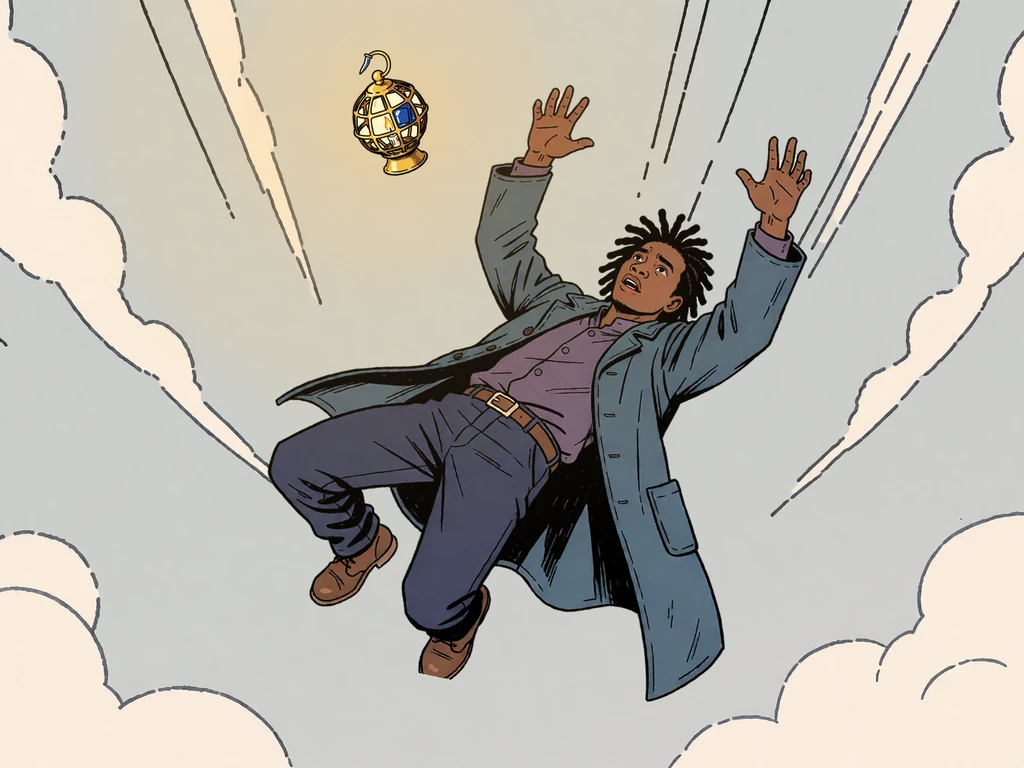
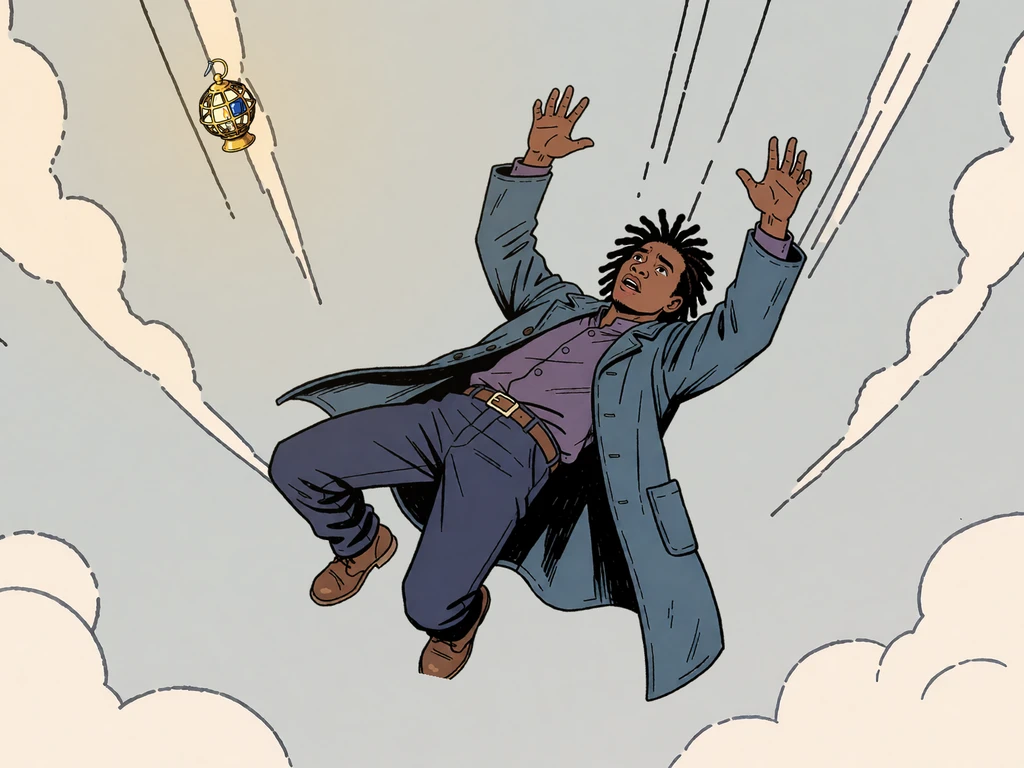
Run 8 loses picture 4; Offering 23 and 24 relocked
Picture 4 (the tug over the black pit) is gone from run 8 at Ladi's word,
with its switch, its card and its file. Offering 23 and 24 are the relocked
pictures with the lantern smaller and to one side.

Claude-Session: https://claude.ai/code/session_01JTmPYBGE5RJi7qTbK5Qior

diff --git a/tests/sieve.test.ts b/tests/sieve.test.ts
@@ -462,11 +462,10 @@ describe("Run 8: a harder job, on the Sieve", () => {
 
 describe("Run 8: the reaction stills", () => {
   /** A whole game played by the juggler, with every line it says and when the room's clock said it, and every wisp's arrivals. */
-  function playThrough(stillFour = false) {
+  function playThrough() {
     let s = 7;
     const msgs: { at: number; m: ServerMsg }[] = [];
     const room = new SieveRoom({ every: () => () => {} }, () => (s = (s * 48271) % 2147483647), "juggle");
-    room.stillFour = stillFour;
     let clock = 0;
     const conn = room.connect((m) => msgs.push({ at: clock, m }));
     conn.message(JSON.stringify({ t: "hello", name: "Rook" }));
@@ -484,7 +483,7 @@ describe("Run 8: the reaction stills", () => {
     return { room, lines, arrivals };
   }
 
-  it("the core stills come in order with their lines, picture 4 stays off, and the end brings 10 and 11", () => {
+  it("the core stills come in order with their lines, picture 4 is gone, and the end brings 10 and 11", () => {
     const { room, lines } = playThrough();
     expect(room.state.phase).toBe("results");
     const shown = lines.filter((x) => x.l.still).map((x) => x.l.still!.id);
@@ -527,17 +526,8 @@ describe("Run 8: the reaction stills", () => {
     for (let i = 1; i < up.length; i++) if (!up[i]!.seq) expect(up[i]!.from - up[i - 1]!.to).toBeGreaterThanOrEqual(ticks(STILL.gapMs) - 1);
   });
 
-  it("picture 4 (the tug itself, no line) shows when switched on, and 5 cross-fades over it", () => {
-    const { lines } = playThrough(true);
-    const shown = lines.filter((x) => x.l.still).map((x) => x.l.still!.id);
-    expect(shown).toContain("r8-4");
-    const four = lines.find((x) => x.l.still?.id === "r8-4")!;
-    expect(four.l.text).toBe("");
-    expect(shown.indexOf("r8-4")).toBeLessThan(shown.indexOf("r8-5"));
-  });
-
   it("every still the run calls has a placeholder card", () => {
-    for (const id of ["r8-1", "r8-2", "r8-4", "r8-5", "r8-6", "r8-7", "r8-10", "r8-11a", "r8-11b"]) expect(STILLS[id]?.who).toBeTruthy();
+    for (const id of ["r8-1", "r8-2", "r8-5", "r8-6", "r8-7", "r8-10", "r8-11a", "r8-11b"]) expect(STILLS[id]?.who).toBeTruthy();
     // Held for its line plus a second, never shorter than the floor; seven holds longer.
     expect(stillMs("r8-1", 0)).toBe(STILL.inMs + STILL.holdMs + STILL.outMs);
     expect(stillMs("r8-1", 4000)).toBe(STILL.inMs + 5000 + STILL.outMs);

diff --git a/src/client/testing.ts b/src/client/testing.ts
@@ -104,7 +104,6 @@ export const OPTIONS: Opt[] = [
 
   { section: "run8", key: "pull", kind: "choice", label: "Which take of the pull plays", values: [["", "The tug, the third take (the run's own)"], ["2", "The second take (v112)"], ["1", "The first take (v111)"]] },
   { section: "run8", key: "nopull", kind: "flag", label: "No pull at all (v108). This wins over the take above." },
-  { section: "run8", key: "still4", kind: "flag", on: "0", label: "Leave out picture 4, the pit at the first tug (shown as a trial)" },
 
   { section: "run9", key: "patch", kind: "choice", label: "Where the dark patch goes", values: [["", "For the brightest light, the lamp too (the run's own)"], ["clock", "On a clock he can read (the build before, v155)"], ["react", "For light, swelling over a heap"], ["seek", "For light, at one size"], ["line", "Along the first build's fixed lines"], ["drag", "It carries wisps off (the first sketch)"]] },
   { section: "run9", key: "sip", kind: "number", min: 0, max: 30, step: 1, placeholder: String(RESCUE.patch.bait.sip), label: "Ticks the lamp waits between two wisps (0 for no wait)" },

diff --git a/src/server/sieve.ts b/src/server/sieve.ts
@@ -77,12 +77,6 @@ export class SieveRoom {
   private tugEndedAt = -1;
   /** Which stills have been shown, in order (for tests). */
   stillsShown: string[] = [];
-  /**
-   * Picture 4 (the tug itself, no face), at the first tug. Off until 25 Nov because the board already
-   * shows it in his hand (gameplay thread); on now as a trial, so Ladi can judge the painted panel in
-   * play and drop it if it does not fit. ?still4=0 in the page turns it off.
-   */
-  stillFour = true;
   /** All the stills off (?nostills in the page). */
   stillsOn = true;
   /** For the measurements: wisps lost (the first not counted), how many of those over a well, restarts, and the ticks the last try took. */
@@ -383,7 +377,7 @@ export class SieveRoom {
       p.tugged = near?.id ?? null;
       p.moved = [];
       this.pulledAt = g.tick;
-      if (this.stillFour) this.picture("r8-4", true, near ? this.wellTile(near.pos) : null);
+      // No picture here: picture 4 (the tug over the pit) was taken out at Ladi's word, 26 Nov.
       return;
     }
     if (p.phase === "wait") {

diff --git a/src/engine/stills.ts b/src/engine/stills.ts
@@ -66,7 +66,6 @@ export const STILLS: Record<string, StillCard> = {
   "r8-2": { who: "Tilda in front, Rook beside her, looking down at the far well", faces: "She is tired, eyes half lidded. He frowns at the well, brows pulled together." },
   "r8-3": { who: "Tilda, a hand held flat at a wisp's height", faces: "Matter-of-fact, almost bored." },
   // Approved with the rest (25 Nov); shown at the first tug as a trial Ladi will judge in play.
-  "r8-4": { who: "The event: his wisp at the end of a thin, shaking beam, over a black pit", faces: "No face." },
   "r8-5": { who: "Tilda near, Rook behind her braced on his staff", faces: "She is lost: eyes wide, brows up, mouth open. He looks back at her, eyes wide, mouth just open.", untilNextMs: 6000 },
   "r8-6": { who: "The same two, turned", faces: "She looks at him, waiting, mouth shut tight. He looks down at his staff, brows pulled hard together." },
   "r8-7": { who: "Rook alone, head a little tilted", faces: "Concerned: brows raised and drawn together, mouth open as if he has just asked.", extraMs: 1000 },

diff --git a/src/client/main.ts b/src/client/main.ts
@@ -1151,7 +1151,6 @@ function sieveRoom() {
   else if (q.get("pull") === "1") r.pullMode = "quiet";
   else if (q.get("pull") === "2") r.pullMode = "loud";
   // Reaction stills: picture 4 (the tug itself) is off unless asked for; all of them off with ?nostills.
-  if (q.get("still4") === "0") r.stillFour = false;
   if (q.has("nostills")) r.stillsOn = false;
   else stills.preload("r8-");
   return r;

diff --git a/CREDITS.md b/CREDITS.md
@@ -32,7 +32,7 @@ subscription-only billing so no Spark was spent. Sources are in the project file
 | story/kindling-underside.webp, story/kindling-heart-small.webp, story/kindling-heart-big.webp, story/kindling-hearts.webp, story/kindling-eye-glint.webp (run 1's ending: the home island from below in its horseshoe shape, both hearts down to embers; the two hearts lit as separate layers; the sky from below with home in its new shape, approved by Ladi at 11:46 AM, "Islands from below lgtm"; and home's one light among them, the 2026-11-23 glint trimmed tighter) | Painted by the cutscene thread on Sogni, 2026-11-24 (`sogni/lanternfall/production/story/v4/`), with krea2_identity_edit_v1_2 on the subscription, 0 Spark, plus its own code, as that thread reports; it says Ladi approved the underside that day and chose two hearts. ❓ That thread has not read the model's licence terms, the same caveat as the run 8 stills. Converted to WebP, same size (1536 square) | Run 1's ending, over the rim and down the underside: the small heart under the Kindling ground lights first, then the big one at the tip; then the islands from below, home's light as bright as the score |
 | story/walk-kitchen.webp (Rook's kitchen, walk 2) | The cutscene art thread's picture (`production/story/part1/kitchen/kitchen-tappable-walk2-draft-3.png`, 2026-11-24), the lantern with its approved hook handle; that thread reports Ladi's "Yes" at 11:47 AM on 2026-11-24 as covering it. ❓ It has not read the model's licence terms, the same caveat as its other pictures. Converted to WebP at 1280 px |
 | story/evening-1.webp and story/evening-2.webp (the evening after Granny's game, 3-4a) | The cutscene art thread's pictures (`production/story/part1/evening/`, drawn on Sogni on the subscription as that thread reports). Picture 1, the pond at sunset, replaced on 2026-11-26 by `evening-pond-final-3.png` (Lumi's right hand back, a younger face, Sefa looking up at Rook), locked by Ladi; picture 2 from `evening-kitchen-night-final-1.png`. ❓ That thread has not read the model's licence terms, the same caveat as its other pictures. Converted to WebP at 1280 px | Part 1's evening scene, 3-4a (`src/client/part1.ts` EVENING) |
-| story/gt-*.webp (the glow test before run 6, seven wide pictures with two light layers), story/dream-*.webp (the dream before run 1, eight pictures), story/skiff-*.webp (the skiff coming in at sunset and leaving the next morning, 4-5, redrawn from the personas on Ladi's notes in `production/story/part1/skiff-home/final-3/` (the arrival; replaced on 2026-11-26 by that folder's later save of `skiff-1-arrives-sunset.png`, which fixes Kes's extra hand, approved by Ladi) and `final-2/` (leaving); the first set's three are no longer used), story/sendoff-*.webp (the beacon and the send-off, 8-9b, thirteen pictures), story/handoff-*.webp (before the stranger's ship, 9-10, eight pictures; picture 4, the ferryman calling, replaced on 2026-11-26 by story row S4, `production/story/runs9-10/s4-over-here-l.png`, approved by Ladi, cropped to 4:3 by the cutscene thread, the crop not seen by Ladi), story/offering-*.webp (the Offering, 11, 25 pictures, rebuilt from the game's own island in `production/story/offering/final-2/`; the first draft is no longer used; pictures 4 and 7 replaced on 2026-11-25 by the third set, `stills-v3/04-falls-wide-a` and `07-lumi-turns-f`, cropped to 4:3 and approved by Ladi; picture 4 replaced again on 2026-11-26 by the ink redraw `stills-v3/04-falls-final` and picture 7 by `stills-v3/07-lumi-final`, both approved by Ladi, the crops the cutscene thread's; picture 1 replaced on 2026-11-26 by `stills-v3/01-landing-final`, picture 5 by `stills-v3/05-lumi-final` and picture 3 by `stills-v3/03-tip-final-3` (Lumi at true scale on the stone and the boat, locked by Ladi), all approved by Ladi, cropped to 4:3 by the cutscene thread, the crops not seen by Ladi; picture 8 replaced on 2026-11-26 by `stills-v3/08-rim-final` (Rook on the bank, Lumi on the stone turned to him), locked by Ladi, the 1024x768 crop the cutscene thread's; picture 9 replaced on 2026-11-26 by `stills-v3/09-door-final` (Hesta by Rook's door, facing him), locked by Ladi, the 1024x768 crop the cutscene thread's; picture 11 replaced on 2026-11-26 by `stills-v3/11-side-final` (Hesta leads Rook round behind his house), locked by Ladi, the 1024x768 crop the cutscene thread's; pictures 12 to 15 replaced on 2026-11-26 by `stills-v3/12-rook-final`, `13-hesta-final`, `14-kneel-final` and `15-hesta-final`, picture 16 by `16-rook-final` and picture 17 by `17-hesta-final`, pictures 6 and 10 by the cutscene thread's `offering-06-mooring` and `offering-10-rook` stills, and pictures 18, 19, 20, 22, 23, 24 and 25 by its `offering-18-line`, `19-rim`, `20-tip`, `22-under`, `23-fall`, `24-fall` and `25-out` stills, and pictures 2 and 21 by `stills-v3/02-path-final` (a krea2_identity_edit_v1_2 repaint of the map view, 0 Spark, with Rook composited by hand) and `stills-v3/21-lumi-final` (Lumi on the picture-21 plate, krea2_identity_edit_v1_2, the lantern from `lant2/lit.png`, cleaned up by hand), locked by Ladi; every Offering picture is now locked, the 1024x768 crops the cutscene thread's) and story/hands-*.webp (Hesta's hands at night and the morning after, 7-8b, four pictures and a shake layer) | The cutscene art thread's final sets (`production/story/part1/glowtest/final/`, `production/story/dream/final/`, `production/story/part1/skiff-home/final/`, `production/story/part1/send-off/final/`, `production/story/handoff-9-10/final/`, `production/story/offering/final/` and `production/story/part1/hands/final/`, 2026-11-25), drawn on Sogni on the subscription as that thread reports, 0 Spark. Glow test: six pictures approved by Ladi on 23 and 24 Nov; gt-5-rook-proud is that thread's pick, not seen by Ladi. Dream: all eight are that thread's picks; Ladi saw the rough storyboard only. Skiff home, send-off, hands, the pictures before the ship and the Offering: that thread's picks, not seen by Ladi. ❓ That thread has not read the model's licence terms, the same caveat as its other pictures. Converted to WebP (glow test 1920x1080, dream 1024x768) | Part 1's held-picture scenes 0, 4-5, 5-6b, 7-8b, 8-9b, 9-10 and 11 (`src/client/part1.ts` DREAM, HELD and GLOW) |
+| story/gt-*.webp (the glow test before run 6, seven wide pictures with two light layers), story/dream-*.webp (the dream before run 1, eight pictures), story/skiff-*.webp (the skiff coming in at sunset and leaving the next morning, 4-5, redrawn from the personas on Ladi's notes in `production/story/part1/skiff-home/final-3/` (the arrival; replaced on 2026-11-26 by that folder's later save of `skiff-1-arrives-sunset.png`, which fixes Kes's extra hand, approved by Ladi) and `final-2/` (leaving); the first set's three are no longer used), story/sendoff-*.webp (the beacon and the send-off, 8-9b, thirteen pictures), story/handoff-*.webp (before the stranger's ship, 9-10, eight pictures; picture 4, the ferryman calling, replaced on 2026-11-26 by story row S4, `production/story/runs9-10/s4-over-here-l.png`, approved by Ladi, cropped to 4:3 by the cutscene thread, the crop not seen by Ladi), story/offering-*.webp (the Offering, 11, 25 pictures, rebuilt from the game's own island in `production/story/offering/final-2/`; the first draft is no longer used; pictures 4 and 7 replaced on 2026-11-25 by the third set, `stills-v3/04-falls-wide-a` and `07-lumi-turns-f`, cropped to 4:3 and approved by Ladi; picture 4 replaced again on 2026-11-26 by the ink redraw `stills-v3/04-falls-final` and picture 7 by `stills-v3/07-lumi-final`, both approved by Ladi, the crops the cutscene thread's; picture 1 replaced on 2026-11-26 by `stills-v3/01-landing-final`, picture 5 by `stills-v3/05-lumi-final` and picture 3 by `stills-v3/03-tip-final-3` (Lumi at true scale on the stone and the boat, locked by Ladi), all approved by Ladi, cropped to 4:3 by the cutscene thread, the crops not seen by Ladi; picture 8 replaced on 2026-11-26 by `stills-v3/08-rim-final` (Rook on the bank, Lumi on the stone turned to him), locked by Ladi, the 1024x768 crop the cutscene thread's; picture 9 replaced on 2026-11-26 by `stills-v3/09-door-final` (Hesta by Rook's door, facing him), locked by Ladi, the 1024x768 crop the cutscene thread's; picture 11 replaced on 2026-11-26 by `stills-v3/11-side-final` (Hesta leads Rook round behind his house), locked by Ladi, the 1024x768 crop the cutscene thread's; pictures 12 to 15 replaced on 2026-11-26 by `stills-v3/12-rook-final`, `13-hesta-final`, `14-kneel-final` and `15-hesta-final`, picture 16 by `16-rook-final` and picture 17 by `17-hesta-final`, pictures 6 and 10 by the cutscene thread's `offering-06-mooring` and `offering-10-rook` stills, and pictures 18, 19, 20, 22, 23, 24 and 25 by its `offering-18-line`, `19-rim`, `20-tip`, `22-under`, `23-fall`, `24-fall` and `25-out` stills (23 and 24 relocked on 2026-11-26 from `stills-v3/23-fall-final-2` and `24-fall-final-2`, the lantern smaller and to one side, a hand composite, 0 Spark), and pictures 2 and 21 by `stills-v3/02-path-final` (a krea2_identity_edit_v1_2 repaint of the map view, 0 Spark, with Rook composited by hand) and `stills-v3/21-lumi-final` (Lumi on the picture-21 plate, krea2_identity_edit_v1_2, the lantern from `lant2/lit.png`, cleaned up by hand), locked by Ladi; every Offering picture is now locked, the 1024x768 crops the cutscene thread's) and story/hands-*.webp (Hesta's hands at night and the morning after, 7-8b, four pictures and a shake layer) | The cutscene art thread's final sets (`production/story/part1/glowtest/final/`, `production/story/dream/final/`, `production/story/part1/skiff-home/final/`, `production/story/part1/send-off/final/`, `production/story/handoff-9-10/final/`, `production/story/offering/final/` and `production/story/part1/hands/final/`, 2026-11-25), drawn on Sogni on the subscription as that thread reports, 0 Spark. Glow test: six pictures approved by Ladi on 23 and 24 Nov; gt-5-rook-proud is that thread's pick, not seen by Ladi. Dream: all eight are that thread's picks; Ladi saw the rough storyboard only. Skiff home, send-off, hands, the pictures before the ship and the Offering: that thread's picks, not seen by Ladi. ❓ That thread has not read the model's licence terms, the same caveat as its other pictures. Converted to WebP (glow test 1920x1080, dream 1024x768) | Part 1's held-picture scenes 0, 4-5, 5-6b, 7-8b, 8-9b, 9-10 and 11 (`src/client/part1.ts` DREAM, HELD and GLOW) |
 | stills/w9-lumi-door.webp (Lumi at the door with the staff and no bag, with her first line in the morning walk before run 8) | A 4:3 crop of story/hands-4-morning-door.webp (the hands set's fourth picture, row above), made here on 2026-11-26 when the picture moved out of the hands scene into the walk on the story thread's advice. Same terms as that row | Walk 9, Lumi's "You packed one bag." |
 | faces/kes-{alarmed,bereft}.webp, faces/grandmother-{steady,soft,talking}.webp, faces/grandfather-neutral.webp (run 9) | Bubble faces from the cast art thread (project files `sogni/lanternfall/production/bubble-faces/`, 2026-11-24), 160 px WebP as delivered. Placeholders: the grandparents' look is a first draft Ladi has not approved, and Kes's two are being re-framed | Bark bubbles and the talk box in run 9; which face goes with which line is in `src/engine/moods.ts` |
 | models/low-house-{a,b,c}.glb, models/rescue-boat.glb, models/kes-drop.glb, models/cold-brazier.glb (run 9) | Draft 1 from the maps thread (project files `sogni/lanternfall/production/places/low-one/`, 2026-11-25): concepts by Sogni AI z_image_turbo_bf16, 3D by Sogni AI pixal3d_int8_i23d, slimmed and re-baked there; the boat's lamp post is procedural | The low one in run 9, in place of the block-outs (`src/client/rescue-dress.ts`) |
